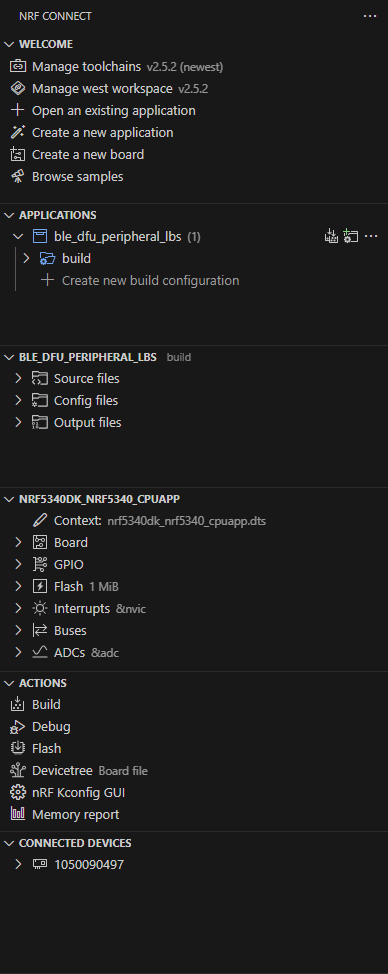
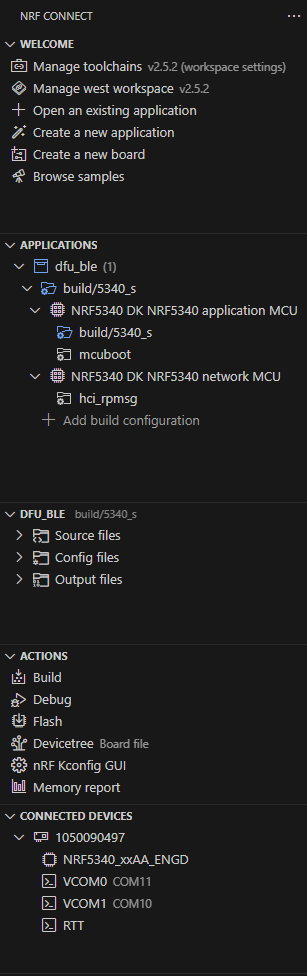
Update NCS_BLE_DFU with better naming + img example + clean useless img

diff --git a/NCS_BLE_DFU.md b/NCS_BLE_DFU.md
@@ -46,7 +46,7 @@ Select the correponding button
 
 ![Picture of VSCode where the place to click is higlighted](img/NCS/sample.png)
 
-Then select the bt sample by searching `bluetooth/peripheral_lbs`
+Then select the bt sample by searching `plb`
 
 ![Picture of VSCode where the place to click is higlighted](img/NCS/BLE/ble_lbs_sample.png)
 
@@ -55,20 +55,39 @@ You should pick a high level folder because of the limit of 250 characters by CM
 Furthermore, when you build the application you will have a `build` folder and within
 a lots of folder and folder thus making the full path of certain files very long.
 
-I choose this path for the example : `c:\ncs\myapps\`
-And I gave it the name `ble_dfu_peripheral_lbs`
+I choose this path for the example : `c:\ncs\apps\dfu_tutorial`
+And I gave it the name `dfu_ble`
 
-![Picture of VSCode where the place to click is higlighted](img/NCS/BLE/appli_saving-1.png)
+![Picture of VSCode with the path and the name given to the application](img/NCS/BLE/appli_saving.png)
 
-![Picture of path of the application in Windows Explorer](img/NCS/BLE/appli_saving-2.png)
-
-![Picture of VSCode with the name given to the application](img/NCS/BLE/appli_saving-3.png)
+![Picture of VSCode with the application ready to build](img/NCS/BLE/appli_saved.png)
 
 This will be the application we are working with.
 
 ___
 
 ## 2) Modify Application
+
+At this point you should have something like this:
+
+```bash
+.
+└── dfu_tutorial/
+    └── dfu_ble/
+        ├── boards/
+        │   └── ...
+        ├── src/
+        │   └── main.c
+        ├── .gitignore
+        ├── CMakeLists.txt
+        ├── Kconfig
+        ├── Kconfig.sysbuild
+        ├── prj_minimal.conf
+        ├── prj.conf
+        ├── README.rst
+        ├── sample.yaml
+        └── VERSION
+```
 
 To make the DFU work, we will need to modify the application
 
@@ -105,6 +124,27 @@ You should have something like this:
 ![Picture of the prj.conf file modified](img/NCS/BLE/conf.png)
 
 Don't forget to save `prj.conf`!!
+
+At this point you should have something like this:
+
+```bash
+.
+└── dfu_tutorial/
+    └── dfu_ble/
+        ├── boards/
+        │   └── ...
+        ├── src/
+        │   └── main.c (M)
+        ├── .gitignore
+        ├── CMakeLists.txt
+        ├── Kconfig
+        ├── Kconfig.sysbuild
+        ├── prj_minimal.conf
+        ├── prj.conf (M)
+        ├── README.rst
+        ├── sample.yaml
+        └── VERSION
+```
 
 ___
 
@@ -149,7 +189,7 @@ To see the log of our application, follow the steps:
 For the next step the picture might not indicate what's to your screen.
 Just go through the steps so you have the same configuration in the end.
 
-![Picture of the serial configuration we have to select](img/NCS/output_conf-2.png)
+![Picture of the serial configuration we have to select](img/NCS/output_conf_COM10-2.png)
 
 ![Picture of the terminal](img/NCS/BLE/output_log_pre-1.png)
 
@@ -212,6 +252,7 @@ Here are some examples :
 
 - the blinking LED (DK_LED1 -> DK_LED4) (line 33 in `src/main.c`)
 - the blinking rate (1000 -> 100) (line 35 in `src/main.c`)
+- the name of the target on Bluetooth Network (Nordic_LBS -> Quasar_Concept) (line 10 in `prj.conf`)
 
 </details>
 </br>
